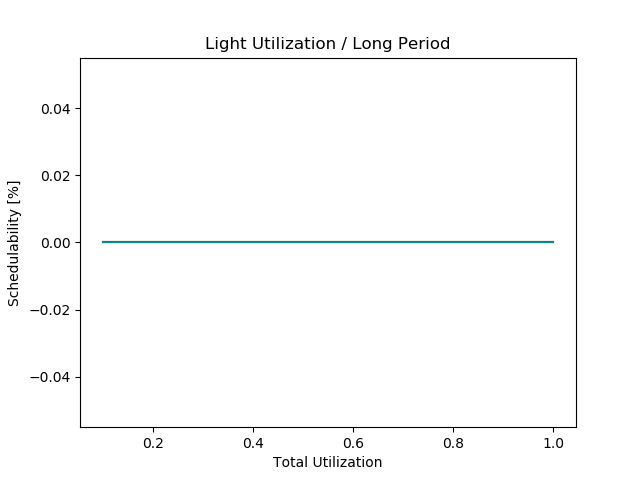
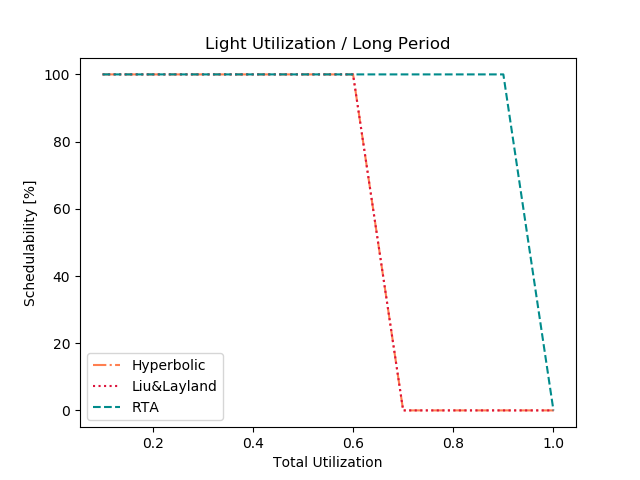
Solved issue, max_util was not being reseted

diff --git a/1_Trabalho/tests.py b/1_Trabalho/tests.py
@@ -111,10 +111,11 @@ def plotGraph(case, graphH, graphL, graphR):
 
     x = [0.1, 0.2, 0.3, 0.4, 0.5, 0.6, 0.7, 0.8, 0.9, 1]
     fig = plt.figure()
-    plt.plot(x, graphH, color = "#FF7F50")
-    plt.plot(x, graphL, color = "#DC143C")
-    plt.plot(x, graphR, color = "#008B8B")
+    plt.plot(x, graphH, '-.', color = "#FF7F50", label = "Hyperbolic")
+    plt.plot(x, graphL, ':', color = "#DC143C", label = "Liu&Layland")
+    plt.plot(x, graphR, '--', color = "#008B8B", label = "RTA")
 
+    plt.legend(loc="lower left")
     plt.title(title)
     plt.xlabel("Total Utilization")
     plt.ylabel("Schedulability [%]")
@@ -123,7 +124,7 @@ def plotGraph(case, graphH, graphL, graphR):
 def random_uniform(min, max):
     # Light and moderate period
     if max % min == 0:
-        return ((int(random() * 1000) % (max/min)) + 1) * min
+        return ((int(random() * 1000) % int(max/min)) + 1) * min
         # e.g. min = .0001 ; max = .01
         # max / min = 100
         # Generates number between [1, 100]
@@ -188,17 +189,42 @@ def generateTaskSet(max_utilization, case):
 
     arrayUtilization = []
     arrayPeriod = []
-    # x
-    current_utilization = 0.0
-    while current_utilization < max_utilization:
-        arrayPeriod.append(random_uniform(min_period_case,max_period_case))
-        if(max_utilization - current_utilization < max_utilization_case and not(max_utilization - current_utilization > min_utilization_case)):
-            arrayUtilization.append(max_utilization - current_utilization)
-            current_utilization = max_utilization
+
+    if case >= 6:
+        # Heavy utilization
+        if max_utilization < 0.9:
+            # Only possible combination is (10 * max_utilization) tasks of max_utilization_case
+            for n in range(0, int(10 * max_utilization)):
+                arrayUtilization.append(max_utilization_case)
+                arrayPeriod.append(random_uniform(min_period_case, max_period_case))
+
         else:
-            holder = random_uniform(min_utilization_case, max_utilization_case)
-            current_utilization += holder
-            arrayUtilization.append(holder)
+            # Can only be all max_utilization_case or all min_utilization_case + 1 task
+            usesMinUtilization = int(random() * 2) % 2
+            for n in range(0, int(10 * max_utilization) + usesMinUtilization):
+                arrayPeriod.append(random_uniform(min_period_case,max_period_case))
+                if usesMinUtilization == 1:
+                    if n == 10:
+                        # For 1.0 utilization, last task has to have max_utilization_case
+                        arrayUtilization.append(max_utilization_case)
+                    else:
+                        arrayUtilization.append(min_utilization_case)
+                else:
+                    arrayUtilization.append(max_utilization_case)
+
+        return arrayUtilization, arrayPeriod
+
+    else:
+        current_utilization = 0.0
+        while current_utilization < max_utilization:
+            arrayPeriod.append(random_uniform(min_period_case,max_period_case))
+            if(max_utilization - current_utilization < max_utilization_case and not(max_utilization - current_utilization > min_utilization_case)):
+                arrayUtilization.append(max_utilization - current_utilization)
+                current_utilization = max_utilization
+            else:
+                holder = random_uniform(min_utilization_case, max_utilization_case)
+                current_utilization += holder
+                arrayUtilization.append(holder)
 
     return arrayUtilization, arrayPeriod
 
@@ -233,8 +259,10 @@ def main():
 
             countH = countL = countR = 0
             max_util += 0.1
+            max_util = round(10 * max_util) / 10
         
         plotGraph(case, graphH, graphL, graphR)
+        max_util = 0.1
         graphH = []
         graphL = []
         graphR = []
